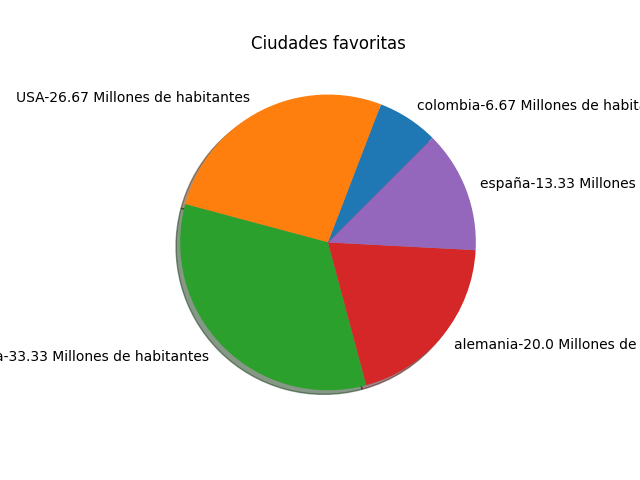
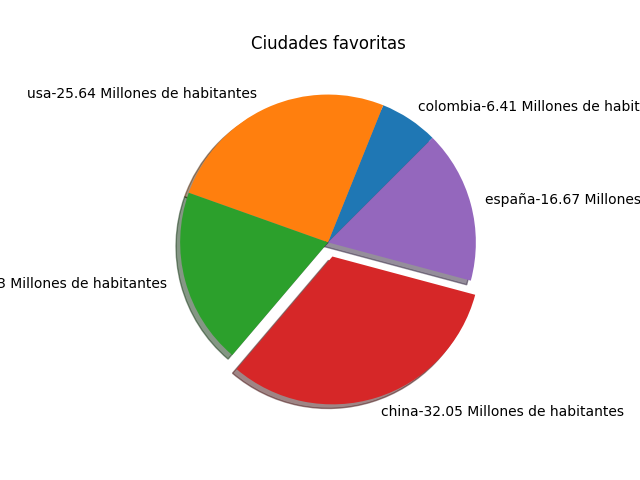
f

diff --git a/examenes/quizGraficas4/punto2.py b/examenes/quizGraficas4/punto2.py
@@ -16,7 +16,11 @@ for i in range (5):
     poblacioon = float(input(PREGUNTA_POBLACION))
     sizes.append(poblacioon)
 
+print(sizes)
+maximo = sizes.index(max(sizes))
 pieExplode = [0, 0, 0, 0, 0] 
+
+pieExplode[maximo] = 0.1
 
 def etiquetarElementosPorcentuales(sizes, labels, indicador= ' ->'):
     acumulador = 0
